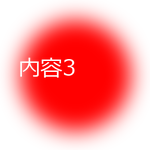
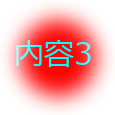
1.期限によって大きさが変わるようになった。 2.JSONにあるカラーコードからバブルに変換する際に補色を適用することで見やすくした(見栄えはいまいち)

diff --git a/templates/index.html b/templates/index.html
@@ -68,9 +68,6 @@
     <!-- Matter.jsライブラリ読み込み -->
     <script src="https://cdnjs.cloudflare.com/ajax/libs/matter-js/0.14.2/matter.min.js"></script>
 
-    <!-- デバッグ用 -->
-    <script src="../static/bubble.js"></script>
-
     <!-- バブル発生のコード -->
     <script defer src="{{ url_for('static', filename='bubble.js') }}"></script>
 </body>

diff --git a/create_bubble_img.py b/create_bubble_img.py
@@ -22,28 +22,61 @@ def create_bubble_img(content_text:str, date:str, color_code:str):
     now = dt.now()
     elapsed_time = (dt(now.year,now.month,now.day)-dt(int(content_date[0]),int(content_date[1]),int(content_date[2]))).days
 
-    # 使うフォント，サイズ，描くテキストの設定
+    # elapsed_timeは正の値の場合は今日の日付と比較して過ぎている（値が大きくなればなるほど）
+    # 負の値の場合は今日の日付と比較して期限がまだ来ていない（値が小さくなればなるほど）
+    if 0 < elapsed_time <= 3:
+        # 期限が過ぎてる
+        canvasSize=(315, 315)
+        thumb_width = 315
+        fontsize = 200
+    
+    elif 0 == elapsed_time:
+        # 期限が同日
+        canvasSize=(215,215)
+        thumb_width = 215
+        fontsize = 60
+
+    else:
+        # 期限が未来の場合
+        canvasSize=(115,115)
+        thumb_width = 115
+        fontsize = 30
+    
+
+    # 使うフォント,描くテキストの設定(先頭から三文字)
     ttfontname = font_path
-    fontsize = 46
 
     if len(content_text) < 3:
         text = content_text
     else:
         text = content_text[:3]
 
-    # 画像サイズ，背景色，フォントの色を設定
+    # 背景色決定（引数から）
+    rgb_data = []
+    rgb_data += [int(color_code[1:3],16),int(color_code[3:5],16),int(color_code[5:7],16)]
+    print(int(color_code[1:3],16),int(color_code[3:5],16),int(color_code[5:7],16))
     backgroundRGB = (int(color_code[1:3],16),int(color_code[3:5],16),int(color_code[5:7],16))
-    textRGB       = (255,255,255)
 
-    if 0 <= elapsed_time <= 3:
-        #safe
-        canvasSize    = (115, 115)
-    elif 4 <= elapsed_time <= 6:
-        # CAUTION
-        canvasSize    = (215, 215)
+    #フォントの色を設定(補色)
+    # 全部黒だったら文字色は白にする　（白なら黒）
+    if rgb_data[0] is 255 and rgb_data[1] is 255 and rgb_data[2] is 255:
+        textRGB = (0,0,0)
+    elif rgb_data[0] is 0 and rgb_data[1] is 0 and rgb_data[2] is 0:
+        textRGB = (255,255,255)
     else:
-        # WARNING
-        canvasSize    = (315, 315)
+        # 補色の計算
+        base_num = max(rgb_data) + min(rgb_data)
+        textRGB       = (base_num-rgb_data[0],base_num-rgb_data[1],base_num-rgb_data[2])
+
+    # if 0 <= elapsed_time <= 3:
+    #     #safe
+    #     canvasSize    = (115, 115)
+    # elif 4 <= elapsed_time <= 6:
+    #     # CAUTION
+    #     canvasSize    = (215, 215)
+    # else:
+    #     # WARNING
+    #     canvasSize    = (315, 315)
 
     # 文字を描く画像の作成
     im  = PIL.Image.new('RGB', canvasSize, backgroundRGB)
@@ -62,11 +95,13 @@ def create_bubble_img(content_text:str, date:str, color_code:str):
                              (img_width + crop_width) // 2,
                              (img_height + crop_height) // 2))
 
-    thumb_width = 150
+    # thumb_width = 150
 
+    # 円形にマスク
     def crop_max_square(pil_img):
         return crop_center(pil_img, min(pil_img.size), min(pil_img.size))
 
+    # マスクされたものの周りをブラーでぼかす
     def mask_circle_transparent(pil_img, blur_radius, offset=0):
         offset = blur_radius * 2 + offset
         mask = Image.new("L", pil_img.size, 0)
@@ -91,5 +126,9 @@ with open('todo-list.json','r',encoding="utf-8") as f:
     jsn = json.load(f)
 
 # jsonからもらったデータをもとに画像を一つづつ作成する
+
 for i in range(0,len(jsn)):
     create_bubble_img(jsn[i]["content"], jsn[i]["timelimit"], jsn[i]["color"])
+
+
+# 経過した日付を確定
